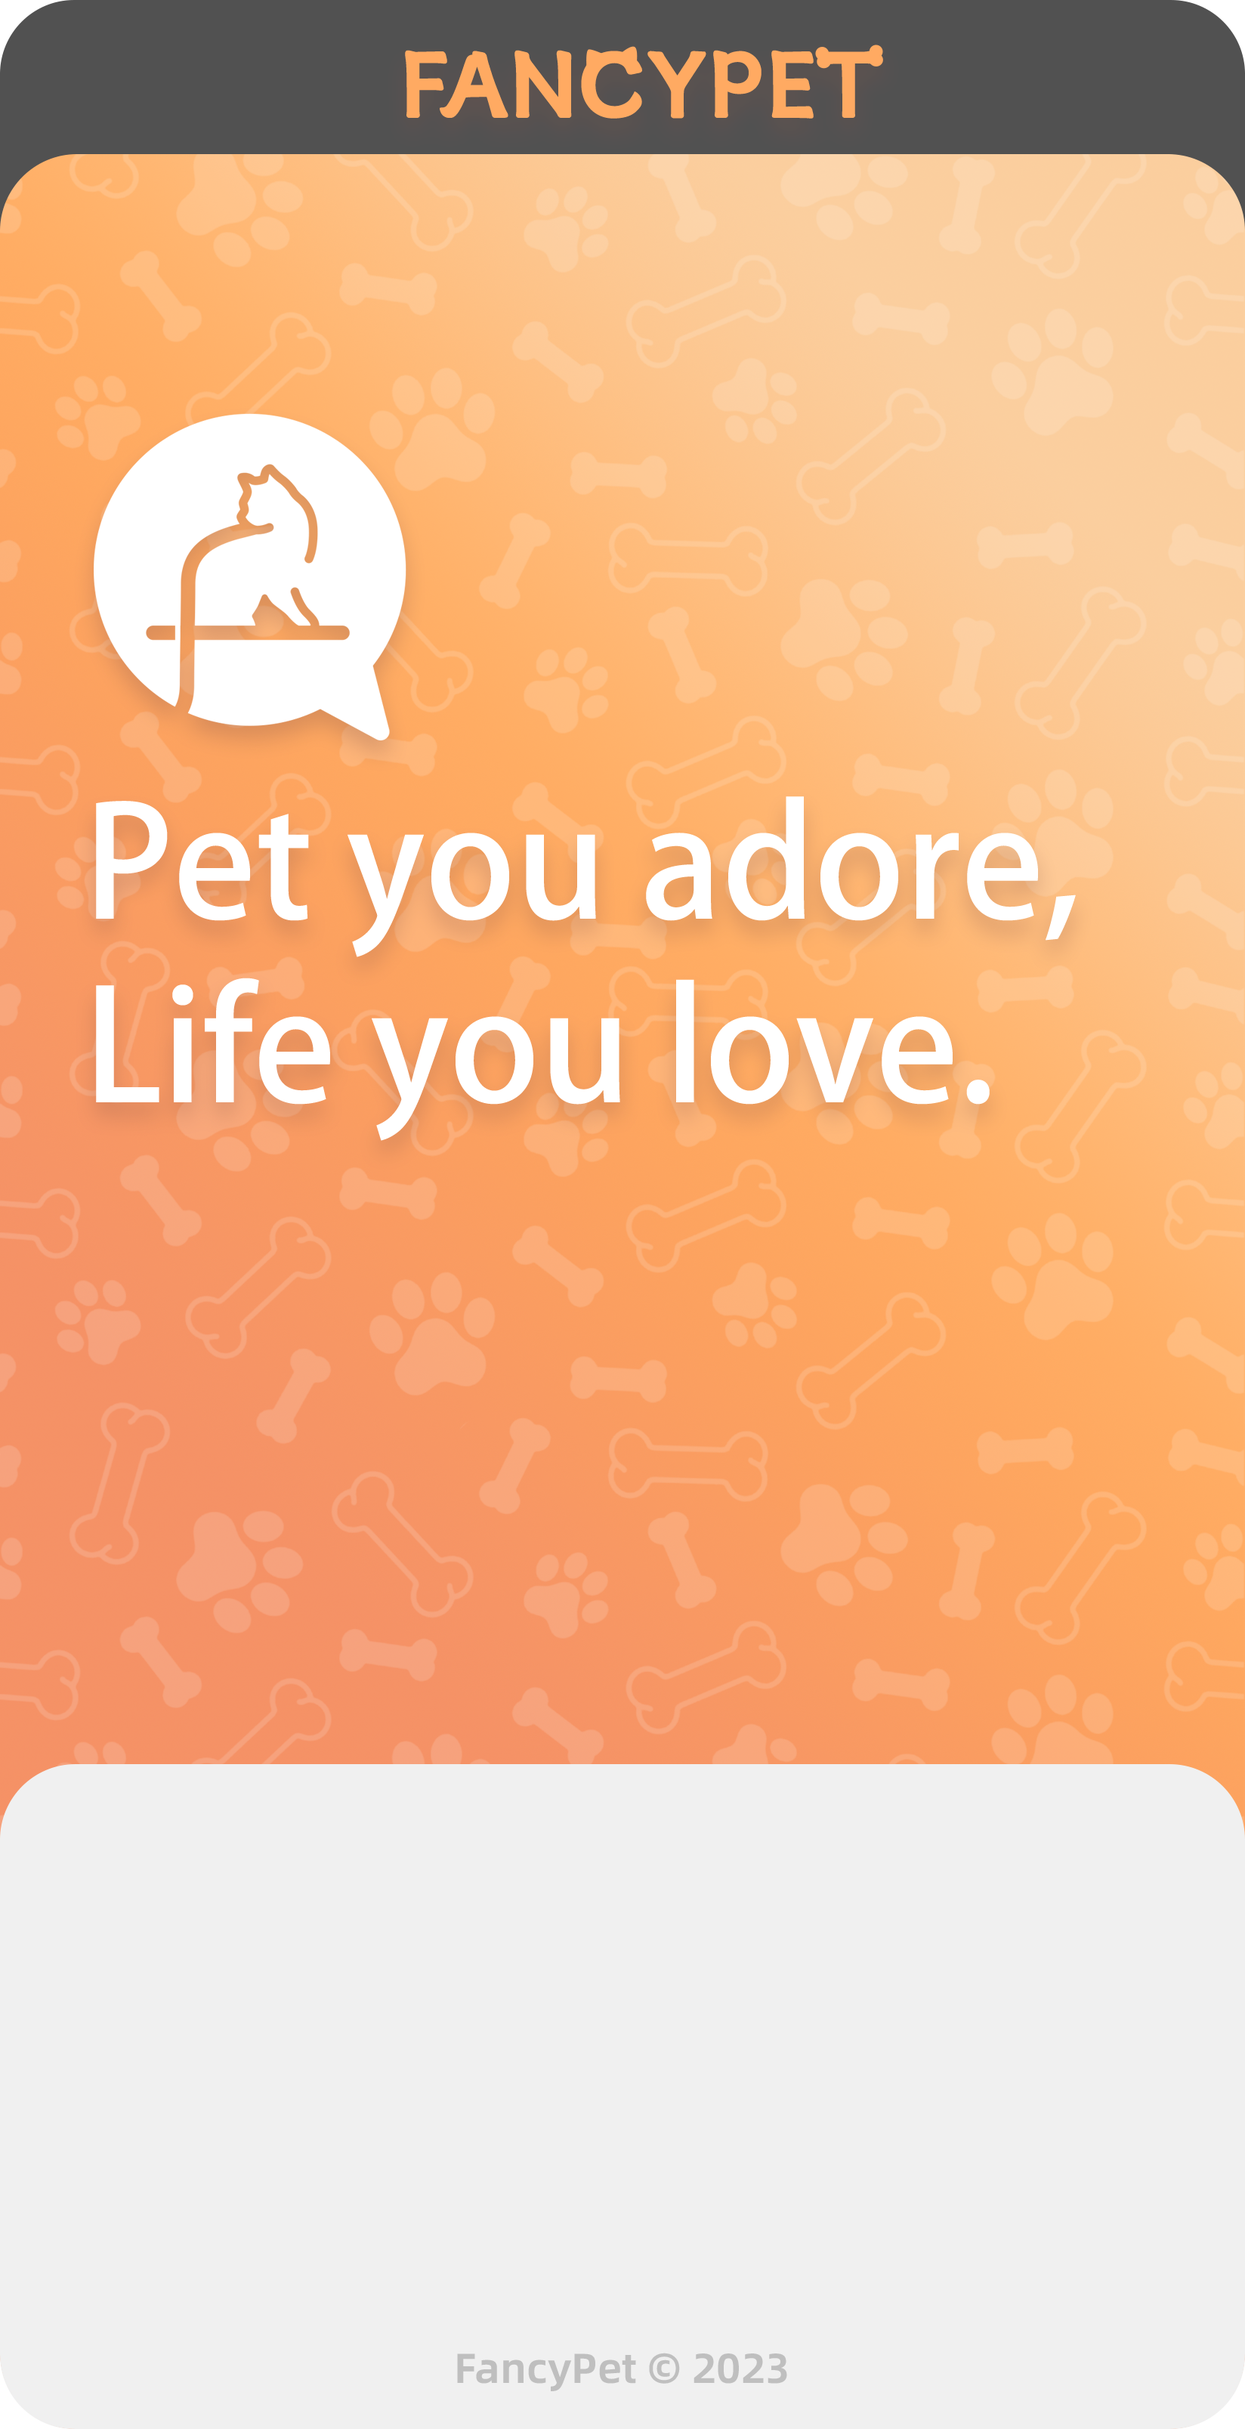
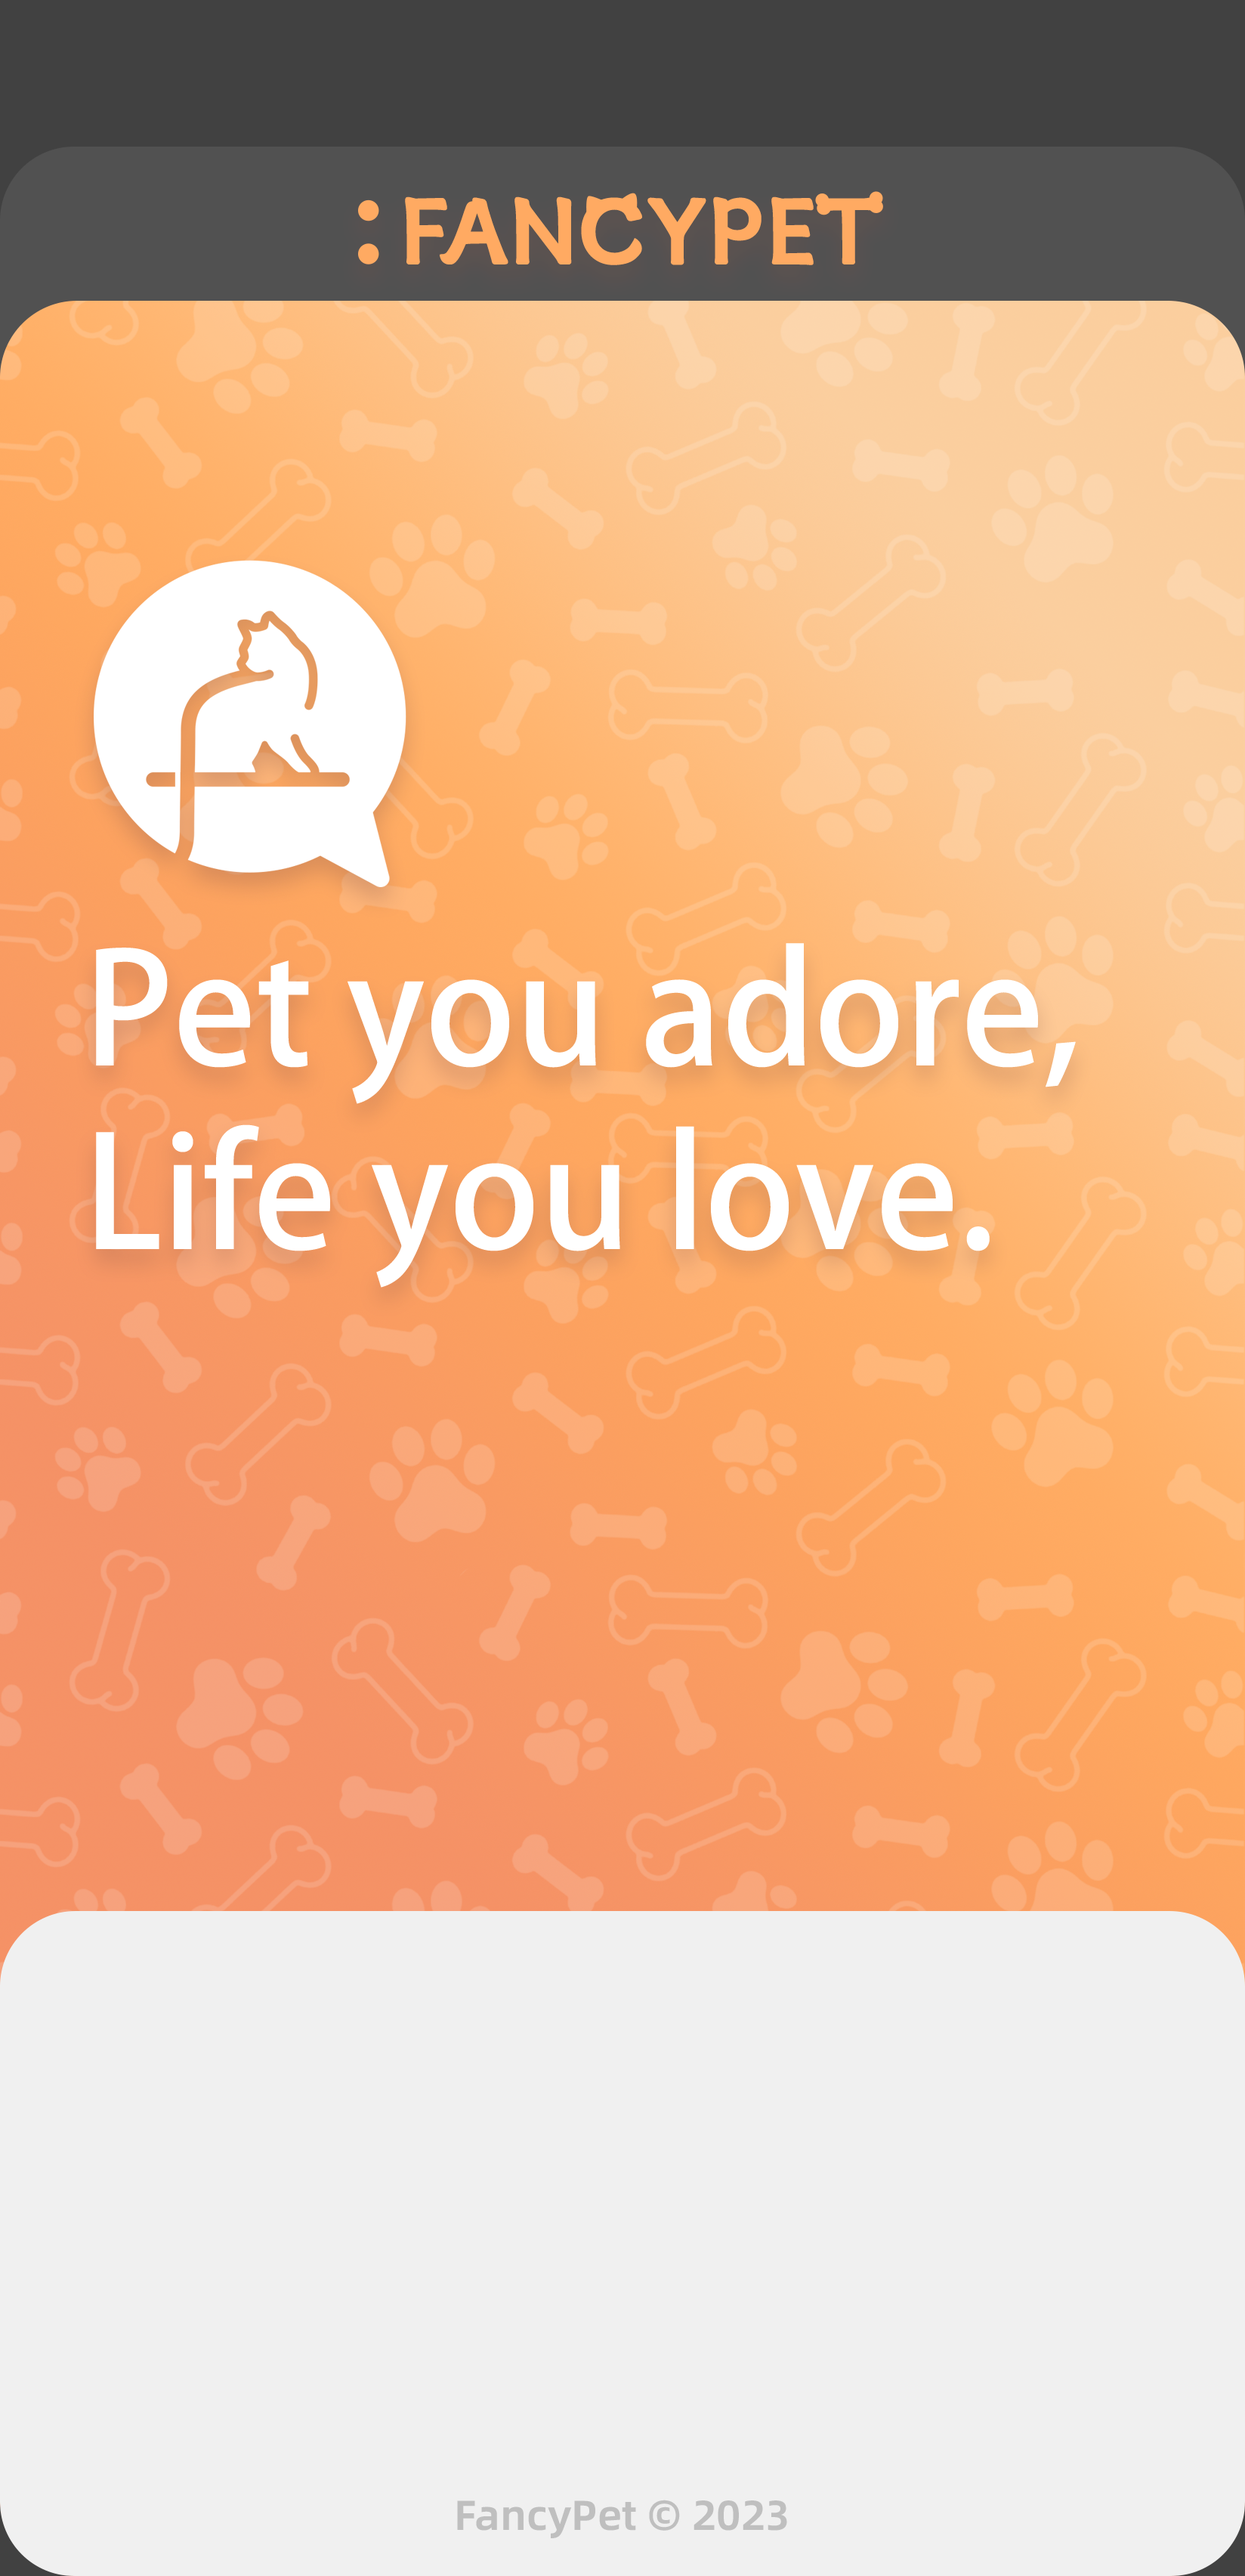
complete-v2,navigationbaradded

diff --git a/frontend/miniprogram/pages/index/index.ts b/frontend/miniprogram/pages/index/index.ts
@@ -25,7 +25,8 @@ Page({
     haveNickname: false,
     LogoUrl:"../../resource/logoall.png",
     bgUrl:"../../resource/background.png",
-    loginbuttonUrl:"../../resource/loginbutton.png"
+    loginbuttonUrl:"../../resource/loginbutton.png",
+    navigationUrl:"../../resource/navigationbar.png"
   },
   // 事件处理函数
   bindViewTap() {
@@ -234,6 +235,12 @@ Page({
         ['atcnum'] : "",
         ['openID'] : "" ,
         canIUseOpenData:false,
+    })
+    this.data.canIUseOpenData=false
+    wx.hideTabBar({
+        success:()=>{
+            console.log("hidetabbar")
+        }
     })
   }
 })
